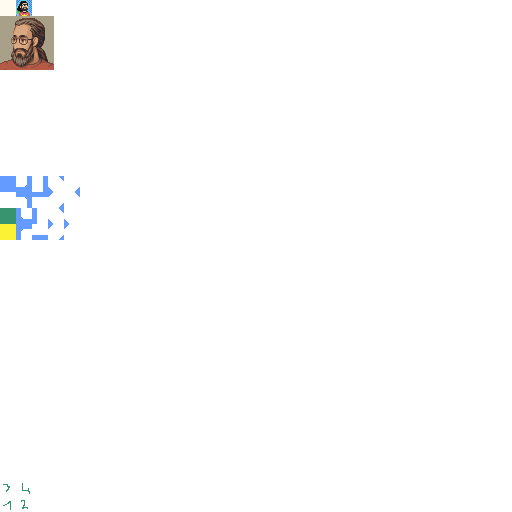
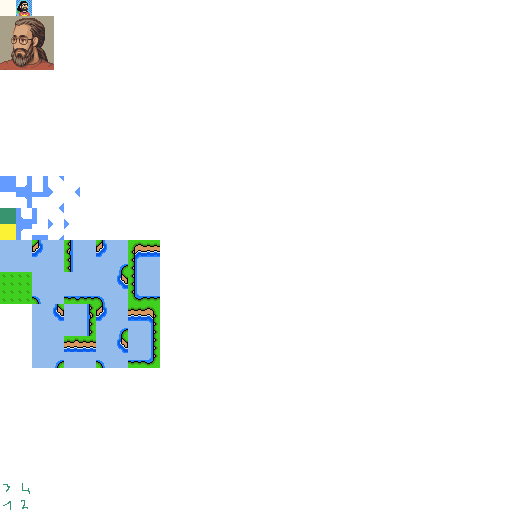
Use 32x32 mario tileset

Changed region(s): [[0.0, 0.4688, 0.3125, 0.7188]]

diff --git a/src/game.ts b/src/game.ts
@@ -72,7 +72,8 @@ type Sprite = {
     z_index:            int;
 }
 
-const GRID_SIZE = 16;
+const GRID_SIZE = 32;
+const TILESET_POSITION = [0, 240];
 const WORLD_GRID_WIDTH: int = 10;
 const WORLD_GRID_HEIGHT: int = 10;
 const WORLD_GRID_SIZE = WORLD_GRID_WIDTH * WORLD_GRID_HEIGHT;
@@ -266,7 +267,7 @@ function update() {
                     size:               [GRID_SIZE, GRID_SIZE],
                     scale:              [1, 1],
                     rotation:           0,
-                    texture_size:       [GRID_SIZE, GRID_SIZE],
+                    texture_size:       [16, 16],
                     // texture_position:   [48, 96+16],
                     texture_position:   [0, 0],
                     z_index:            2,
@@ -291,7 +292,7 @@ function update() {
                 const texture_position: Vector2 = [
                     tile_texture_position[0]*GRID_SIZE + TILESET_POSITION[0],
                     tile_texture_position[1]*GRID_SIZE + TILESET_POSITION[1],
-                ]
+                ];
 
                 const sprite: Sprite = {
                     color:              color,
@@ -830,7 +831,6 @@ const TILE_VALUES = [
     0b0101, // 3 3
     0b0111, // 4 3
 ];
-const TILESET_POSITION = [0, 176];
 const AUTO_TILE_SIZE: Vector2 = [5, 4];
 function is_same_tile(grid_position: Vector2): int {
     const grid_index = grid_position_to_index(grid_position, WORLD_GRID_WIDTH);
